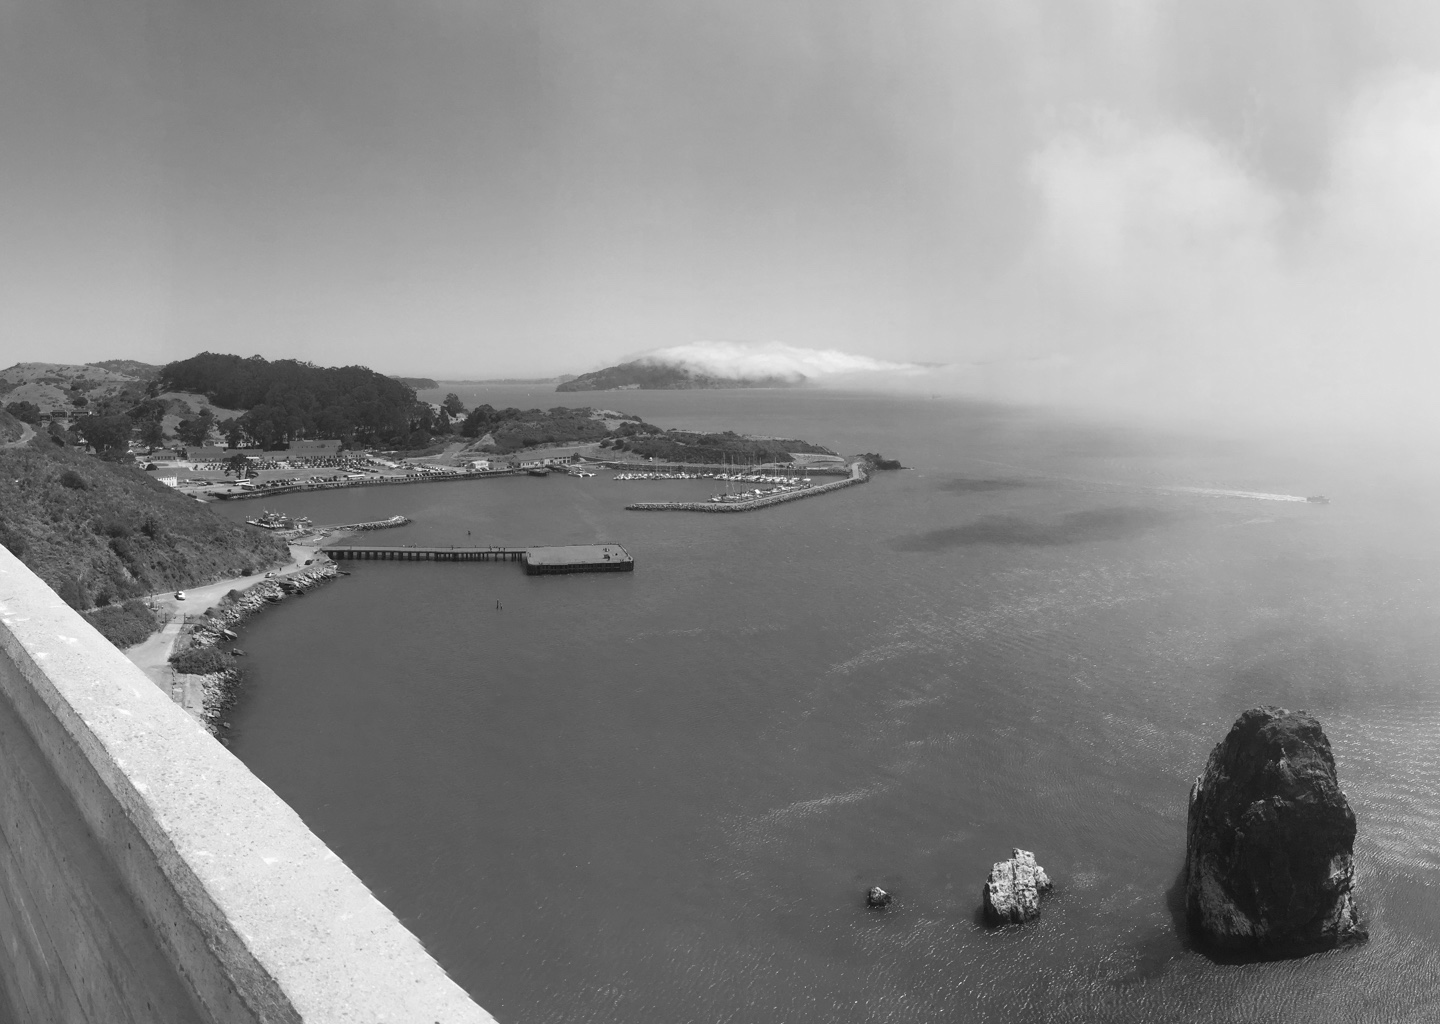
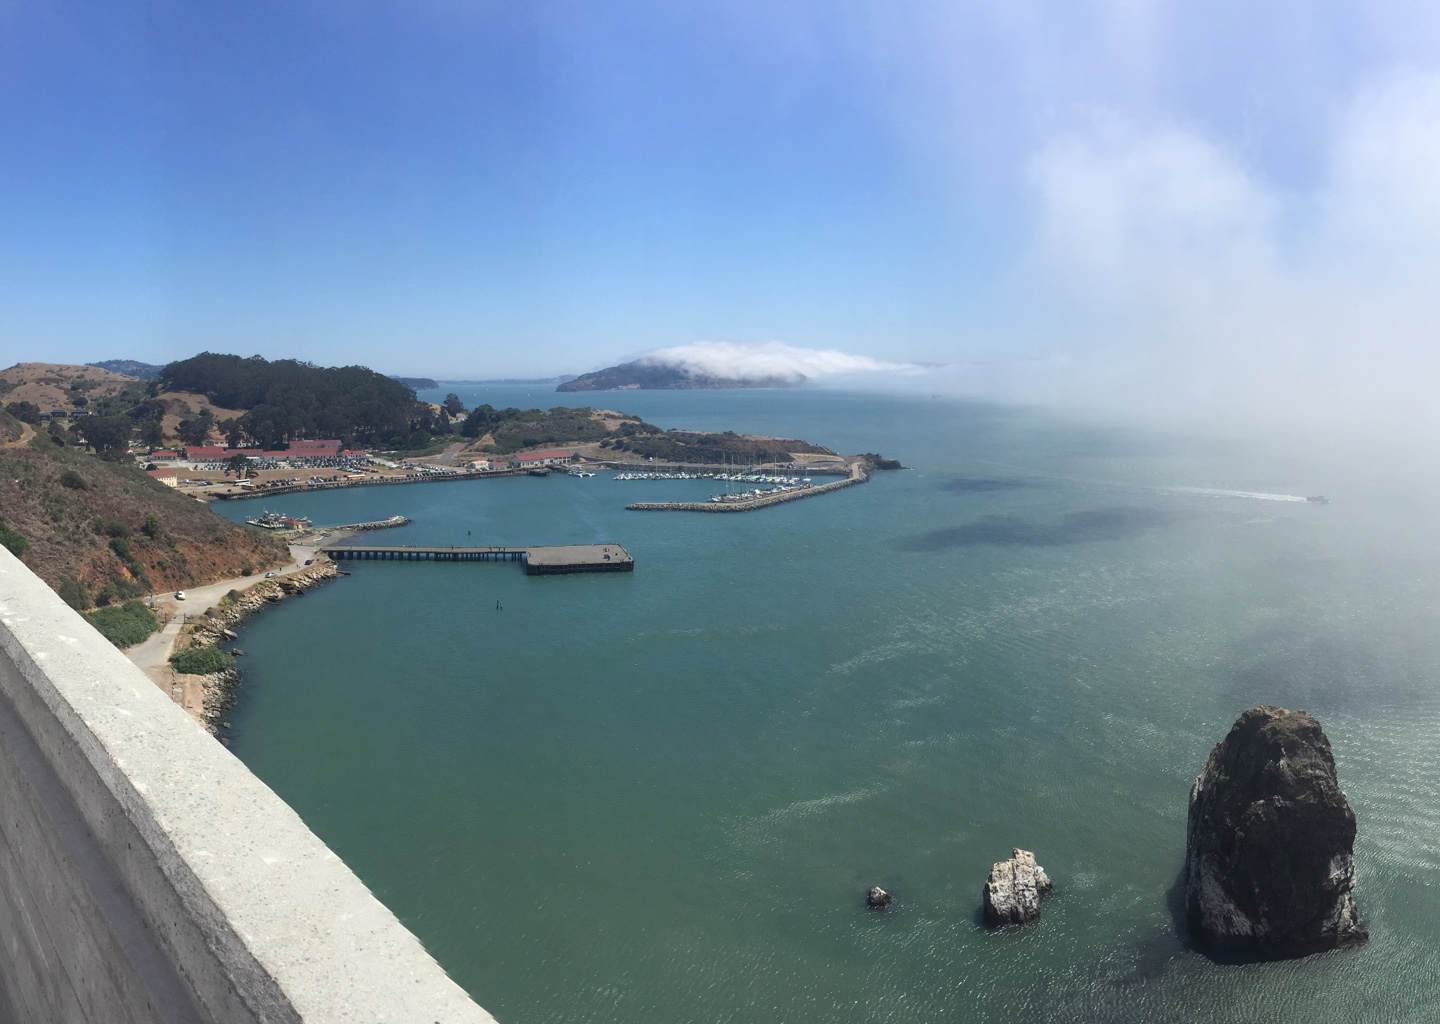
Updated font from 'Roboto Slab' to 'Lato', updated link to facebook, updated background image from B/W to Colorful & changed lowercased text to capitalized (2)

diff --git a/public/index.html b/public/index.html
@@ -85,14 +85,14 @@
                         <img src="./portifolio/images/profile1.jpg" id="profileImage" class="hidden">
                     </div>
                     <div class="infos-social">
-                        <a href="https://www.facebook.com/MatheusORabelo" target="_blank" class="facebook hidden" alt="Facebook">&nbsp;</a>
+                        <a href="https://www.facebook.com/omatheusrabelo" target="_blank" class="facebook hidden" alt="Facebook">&nbsp;</a>
                         <a href="https://br.linkedin.com/in/omatheusr" target="_blank" class="linkedin hidden" alt="LinkedIn">&nbsp;</a>
                         <a href="https://github.com/omatheusr" target="_blank" class="github hidden" alt="GitHub">&nbsp;</a>
                         <a href="https://twitter.com/OMatheusR" target="_blank" class="twitter hidden" alt="Twitter">&nbsp;</a>
                     </div>
                     <div class="infos-name">
-                        <h1>matheus</h1>
-                        <h2>rabelo</h2>
+                        <h1>Matheus</h1>
+                        <h2>Rabelo</h2>
                     </div>
                 </div>
             </div>

diff --git a/public/portifolio/css/style.css b/public/portifolio/css/style.css
@@ -1,4 +1,6 @@
 @import url('https://fonts.googleapis.com/css?family=Roboto+Slab:100,300');
+@import url('https://fonts.googleapis.com/css?family=Lato:300,900');
+
 *{
     margin:0;
     padding:0;
@@ -155,14 +157,20 @@ html, body{
 }
 
 .infos-name h1{
-    font-weight: 300;    
-    font-size: 3.5em;
+    margin: 0.1em 0 0 -0.05em;
+    font-weight: 900;    
+    font-size: 3.56em;
     line-height: 0.86em;
+    font-family: 'Lato', serif;
+    color: #fff;
 }
 .infos-name h2{
-    font-weight: 100;
-    font-size: 2em;
+    margin-left: -0.08em;
+    font-weight: 300;
+    font-family: 'Lato', serif;
+    font-size: 1.6em;
     line-height: 1em;
+    color: #D1D1D1;
 }
 
 /*WORK*/
